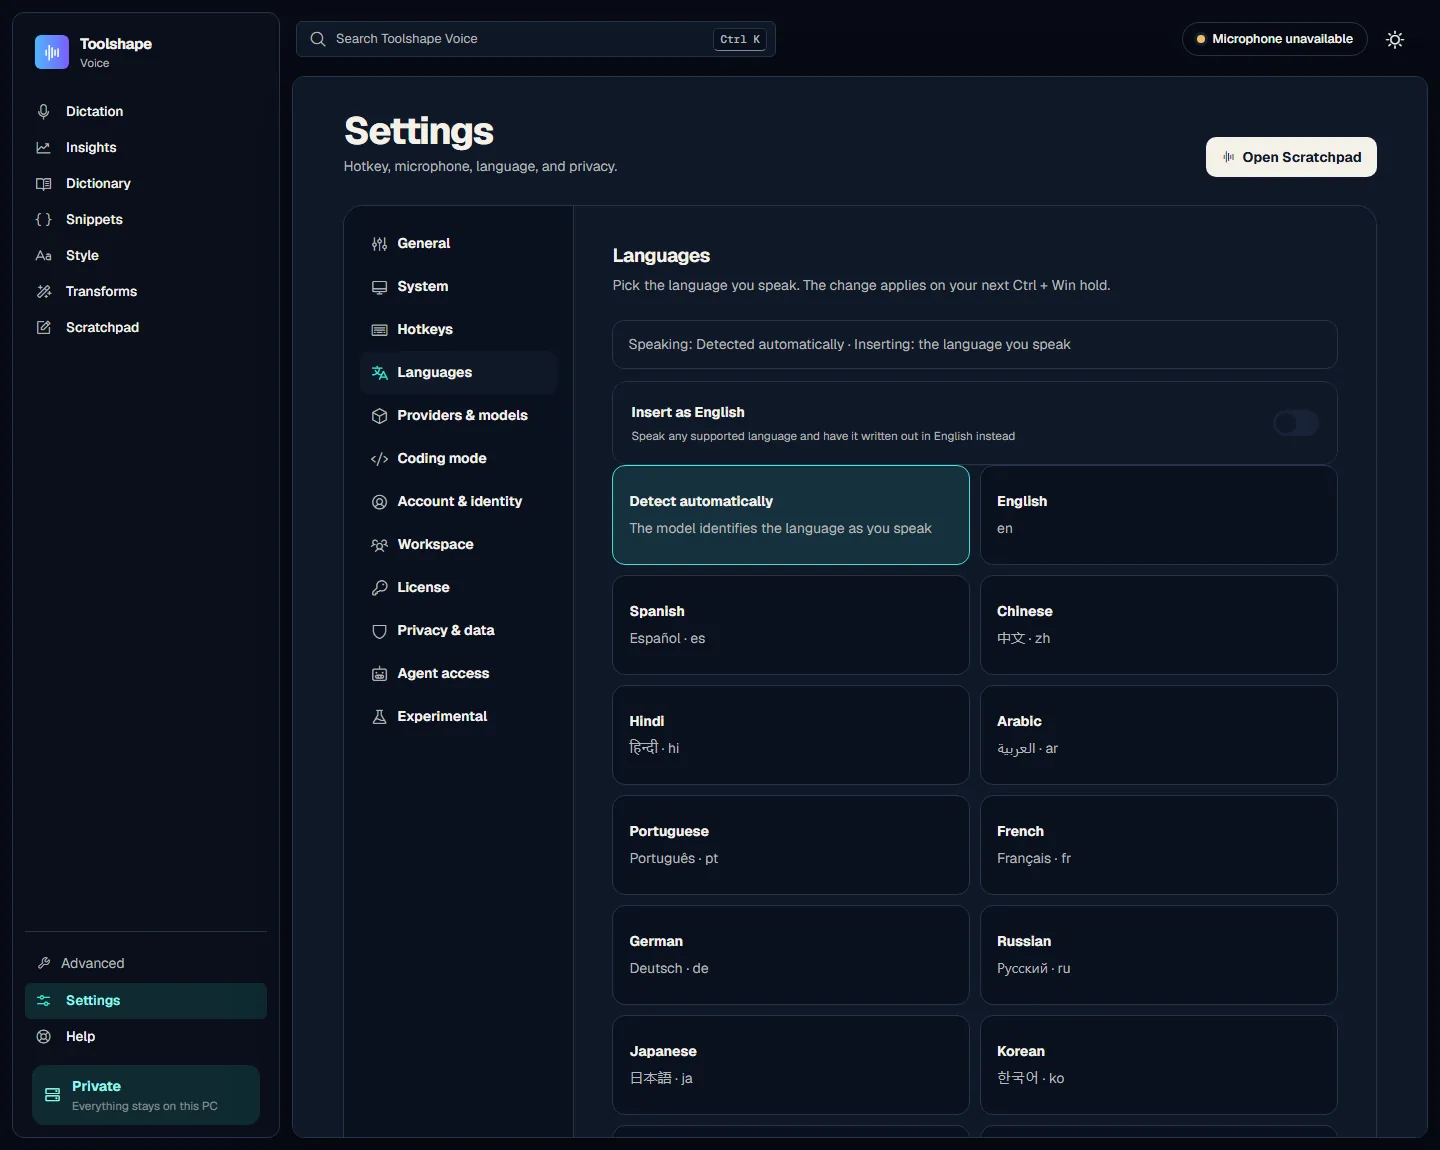
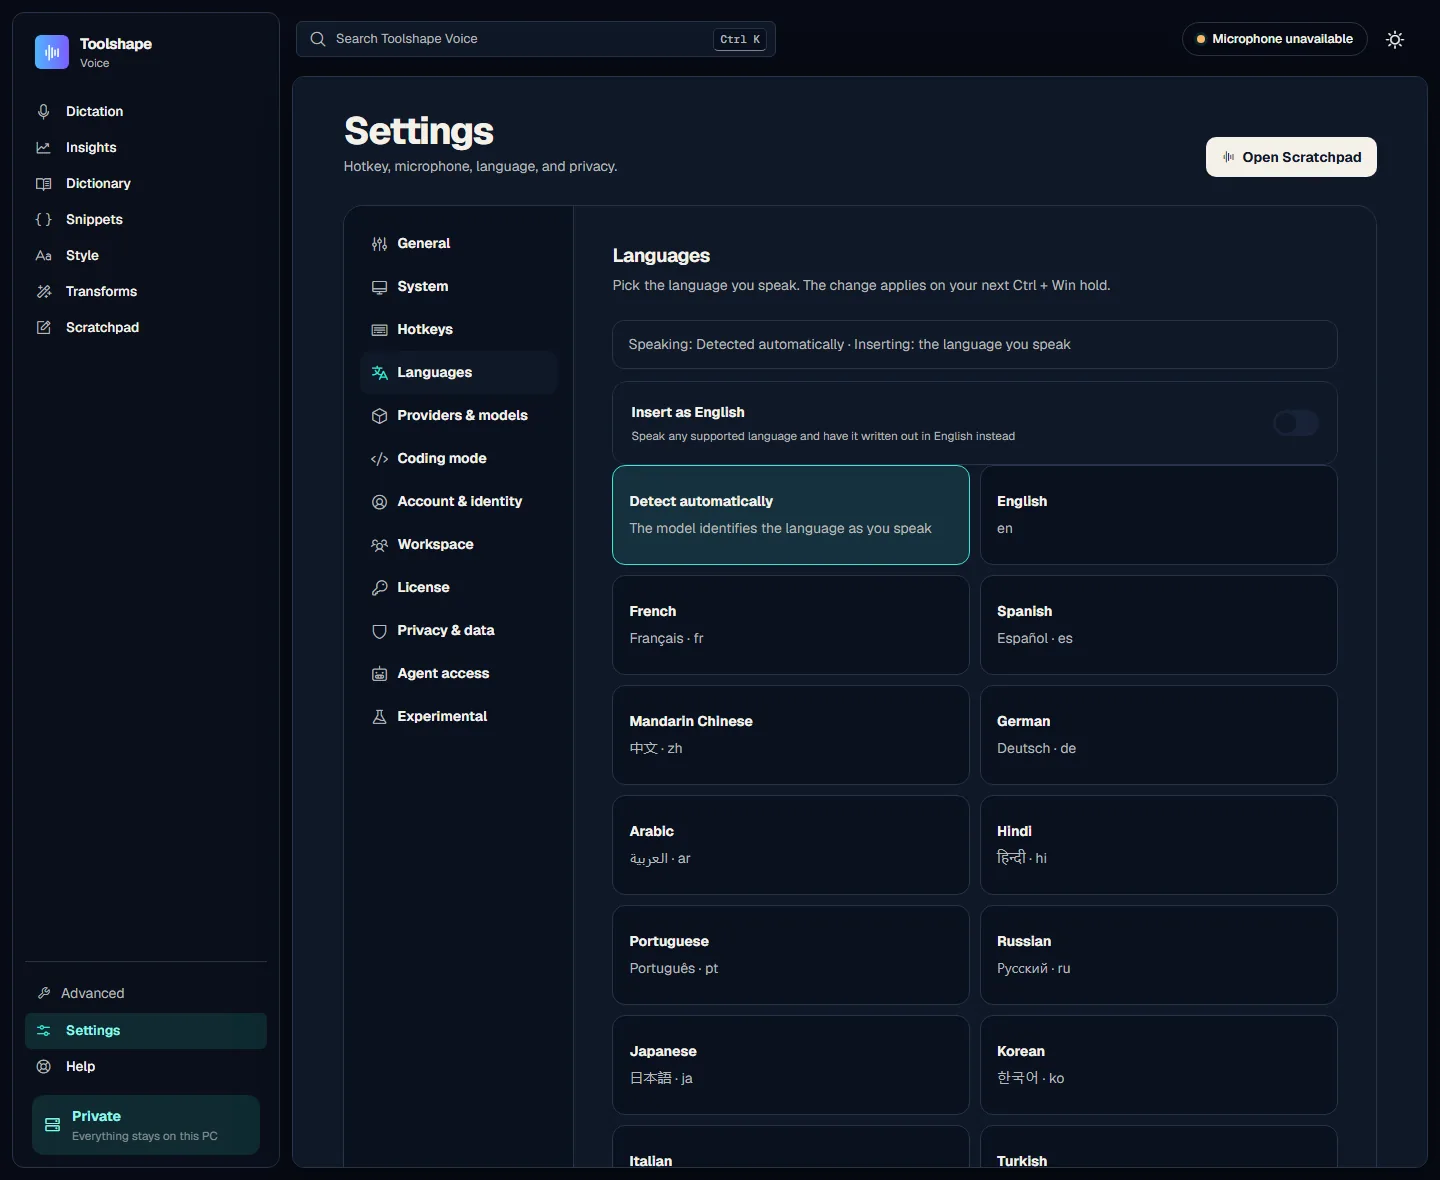
Show the whole Toolshape Voice product, not just the dictation view
The gallery carried five images and led, correctly, with the home view: the
dictation history that is what daily use actually looks like. It stays first.
Three panels join it -- general settings, voice styles, and transforms -- so a
reader can see the parts that make it a product rather than a hotkey.

The language picker screenshot is recaptured. It was showing the old ordering,
which listed languages by raw speaker count; the picker now leads with the ones
people actually reach for, so the published image no longer disagrees with the
application.

Dictionary, Snippets and Scratchpad are deliberately left out. The first two
capture as empty states, and the Scratchpad shows development fixture text --
none of which shows the product working, and a gallery is a poor place to prove
a feature exists by photographing the place it would appear.

Captions describe what the reader is looking at and why it matters. All eight
resolve on the project page and none appear on any other.

diff --git a/src/data/projects.js b/src/data/projects.js
@@ -723,7 +723,7 @@ body: "The source is public and running. Shipped: the unified project model, typ
         src: "/images/projects/toolshape-voice/dictation-dark.webp",
         alt: "Toolshape Voice dictation history grouped by day, with per-application word counts",
         caption:
-          "Every dictation is written to local history before insertion is attempted, which is why one is never lost when the target application cannot accept it.",
+          "The home view. Every dictation is written to local history before insertion is attempted, which is why one is never lost when the target application cannot accept it.",
       },
       {
         src: "/images/projects/toolshape-voice/voicebar-listening.webp",
@@ -742,6 +742,24 @@ body: "The source is public and running. Shipped: the unified project model, typ
         alt: "Language picker listing thirty languages, each shown in its own script",
         caption:
           "Thirty languages, each shown in its own script. The list is what the local model handles well rather than everything it claims, because a language it transcribes badly is worse than one not offered at all.",
+      },
+      {
+        src: "/images/projects/toolshape-voice/settings-dark.webp",
+        alt: "General settings showing the activation shortcut, microphone, dictation language, clipboard copy and theme",
+        caption:
+          "The settings that decide how a dictation behaves, in one pane: the hold shortcut, which microphone, which language, and whether every transcript is also copied to the clipboard.",
+      },
+      {
+        src: "/images/projects/toolshape-voice/style-dark.webp",
+        alt: "Voice styles offering built-in profiles that preview their changes before applying",
+        caption:
+          "Voice styles match tone to the application being dictated into. Built-in profiles preview their exact changes; custom instructions fail closed until a provider exists rather than silently doing nothing.",
+      },
+      {
+        src: "/images/projects/toolshape-voice/transforms-dark.webp",
+        alt: "Transform recipes bound to hotkeys, each showing its plan and protected spans before applying",
+        caption:
+          "Transforms rewrite a dictation after the fact. Each previews its plan, its protected placeholders and the revision it expects, so a rewrite is inspected before it is trusted.",
       },
       {
         src: "/images/projects/toolshape-voice/dictation-light.webp",
